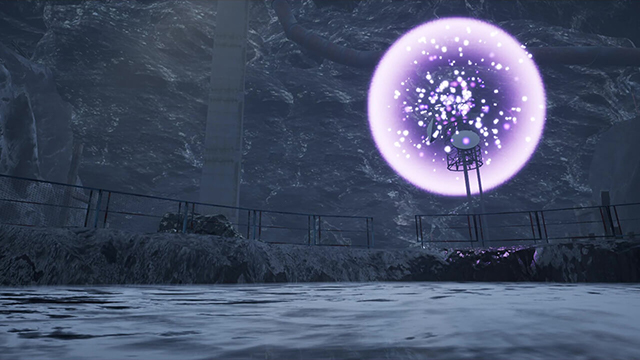
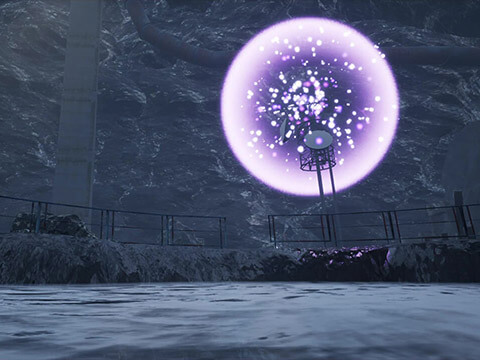
画像のminifyとlazyload

diff --git a/src/index.html b/src/index.html
@@ -8,6 +8,7 @@
     <meta name=”robots” content=”noindex”>
     <!-- Vue.js -->
     <script src="https://cdn.jsdelivr.net/npm/vue/dist/vue.js"></script>
+    <script src="https://unpkg.com/vue-lazyload/vue-lazyload.js"></script>
     <!-- ShadowBox -->
     <link rel="stylesheet" type="text/css" href="shadowbox/shadowbox.css">
     <script type="text/javascript" src="shadowbox/shadowbox.js"></script>
@@ -64,7 +65,7 @@
 		</a>
 		<div id="movie-player"></div>
 	</div>
-	<div id="about" class="about">
+	<div id="about" class="about" v-lazy-container="{ selector: 'img' }">
 		<div class="section-header yellow"><h2>電撃少女エクレアとは</h2></div>
 		<div class="container">
 			<p>
@@ -94,14 +95,14 @@
 				<span>彼女はアーミーギアへ立ち向かう。</span>
 			</p>
 
-			<img v-if="!isPhone" src="images/about/eclair.png" alt="エクレア" height=640 class="about-eclair">
+			<img v-if="!isPhone" data-src="images/about/eclair.png" alt="エクレア" height=640 class="about-eclair">
 
 			<h3><span>エクレア最大の</span>
 				<span>アクション「電撃移動」</span></h3>
 			<div class="about-movie">
 				<div id="about-player"></div>
 			</div>
-			<img v-if="isPhone" src="images/about/eto.gif" alt="エクレア" height=320 class="about-gif">
+			<img v-if="isPhone" data-src="images/about/eto.gif" alt="エクレア" height=320 class="about-gif">
 			<p>
 				<span>ELE-GEARを装備した</span>
 				<span>エクレアができる技の中で</span>
@@ -124,12 +125,12 @@
 			</p>
 		</div>
 	</div>
-	<div id="characters" class="characters">
+	<div id="characters" class="characters" v-lazy-container="{ selector: 'img' }">
 		<div class="section-header cyan"><h2>キャラクター</h2></div>
 		<div class="container">
 			<div class="character">
 				<h3>エクレア</h3>
-				<img src="images/characters/eclair.png" height=480 alt="エクレア" class="characters-image">
+				<img data-src="images/characters/eclair.png" height=480 alt="エクレア" class="characters-image">
 				<p>
 					「ELE-GEAR」を操る少女。<br>
 					<span>オレイエットの依頼を受け</span>
@@ -141,7 +142,7 @@
 			</div>
 			<div class="character">
 				<h3><span>ビクター・</span><span>オレイエット</span></h3>
-				<img src="images/characters/oreillette.png" height=480 alt="オレイエット" class="characters-image">
+				<img data-src="images/characters/oreillette.png" height=480 alt="オレイエット" class="characters-image">
 				<p>
 					<span>「ギア」と呼ばれる</span>
 					<span>不思議な装置を研究している男。</span><br>
@@ -161,17 +162,17 @@
 			</div>
 		</div>
 	</div>
-	<div id="gallery" class="gallery">
+	<div id="gallery" class="gallery" v-lazy-container="{ selector: 'img' }">
 		<h2>ギャラリー</h2>
 		<div class="gallery-container">
-			<a href="images/gallery/1.jpg" rel="shadowbox[gallery]"><img src="images/gallery/1.thumb.jpg" alt="1章コンセプトアート"></a>
-			<a href="images/gallery/2.jpg" rel="shadowbox[gallery]"><img src="images/gallery/2.thumb.jpg" alt="ボルト"></a>
-			<a href="images/gallery/3.jpg" rel="shadowbox[gallery]"><img src="images/gallery/3.thumb.jpg" alt="避雷針"></a>
-			<a href="images/gallery/4.jpg" rel="shadowbox[gallery]"><img src="images/gallery/4.thumb.jpg" alt="電撃移動中のエクレア"></a>
-			<a href="images/gallery/5.jpg" rel="shadowbox[gallery]"><img src="images/gallery/5.thumb.jpg" alt="クラゲ足場"></a>
-			<a href="images/gallery/6.jpg" rel="shadowbox[gallery]"><img src="images/gallery/6.thumb.jpg" alt="ボルトを投げるエクレア"></a>
-			<a href="images/gallery/7.jpg" rel="shadowbox[gallery]"><img src="images/gallery/7.thumb.jpg" alt="溶鉱炉"></a>
-			<a href="images/gallery/8.jpg" rel="shadowbox[gallery]"><img src="images/gallery/8.thumb.jpg" alt="水と避雷針"></a>
+			<a href="images/gallery/1.jpg" rel="shadowbox[gallery]"><img data-src="images/gallery/1.thumb.jpg" alt="1章コンセプトアート"></a>
+			<a href="images/gallery/2.jpg" rel="shadowbox[gallery]"><img data-src="images/gallery/2.thumb.jpg" alt="ボルト"></a>
+			<a href="images/gallery/3.jpg" rel="shadowbox[gallery]"><img data-src="images/gallery/3.thumb.jpg" alt="避雷針"></a>
+			<a href="images/gallery/4.jpg" rel="shadowbox[gallery]"><img data-src="images/gallery/4.thumb.jpg" alt="電撃移動中のエクレア"></a>
+			<a href="images/gallery/5.jpg" rel="shadowbox[gallery]"><img data-src="images/gallery/5.thumb.jpg" alt="クラゲ足場"></a>
+			<a href="images/gallery/6.jpg" rel="shadowbox[gallery]"><img data-src="images/gallery/6.thumb.jpg" alt="ボルトを投げるエクレア"></a>
+			<a href="images/gallery/7.jpg" rel="shadowbox[gallery]"><img data-src="images/gallery/7.thumb.jpg" alt="溶鉱炉"></a>
+			<a href="images/gallery/8.jpg" rel="shadowbox[gallery]"><img data-src="images/gallery/8.thumb.jpg" alt="水と避雷針"></a>
 		</div>
 	</div>
 	<div id="roadmap" class="roadmap">
@@ -185,7 +186,6 @@
 			</ul>
 		</div>
 	</div>
-	</div><!-- navigation-wrapper -->
 <!-- 	<div id="member" class="member">
 		<h2>制作メンバー</h2>
 		<div class="member-inner">
@@ -213,6 +213,7 @@
 		<img src="images/header/logo.png" width="400" alt="">
 		<p>&copy;Team HTL in Qpic</p>
 	</footer>
+	</div><!-- navigation-wrapper -->
 
     <!-- Scripts -->
     <script src="js/script.js"></script>
@@ -225,7 +226,7 @@
     <script>
     	const sweetScroll = new SweetScroll({
   			trigger: "a[href^='#']",
-  			offset: -80,
+  			offset: isPhone() ? -280 : -80,
   			duration: 500
 		});
     </script>

diff --git a/src/js/script.js b/src/js/script.js
@@ -33,6 +33,8 @@ var onScroll = function() {
 }
 document.addEventListener('scroll', onScroll)
 
+Vue.use(VueLazyload);
+
 var navigation = new Vue({
   el: '#nav',
   data: {
@@ -57,6 +59,14 @@ var about = new Vue({
       return isPhone();
     }
   }
+});
+
+var characters = new Vue({
+  el: '#characters'
+});
+
+var gallery = new Vue({
+  el: '#gallery'
 });
 
 // おわり
